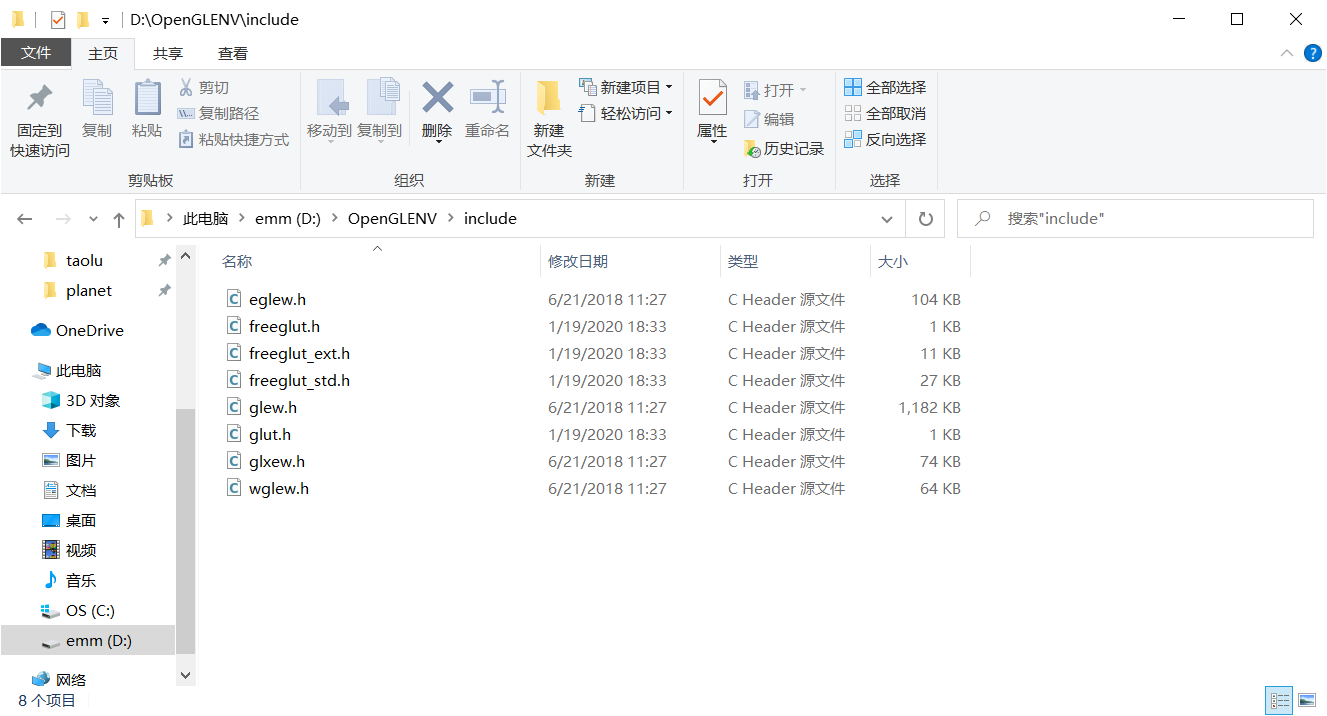
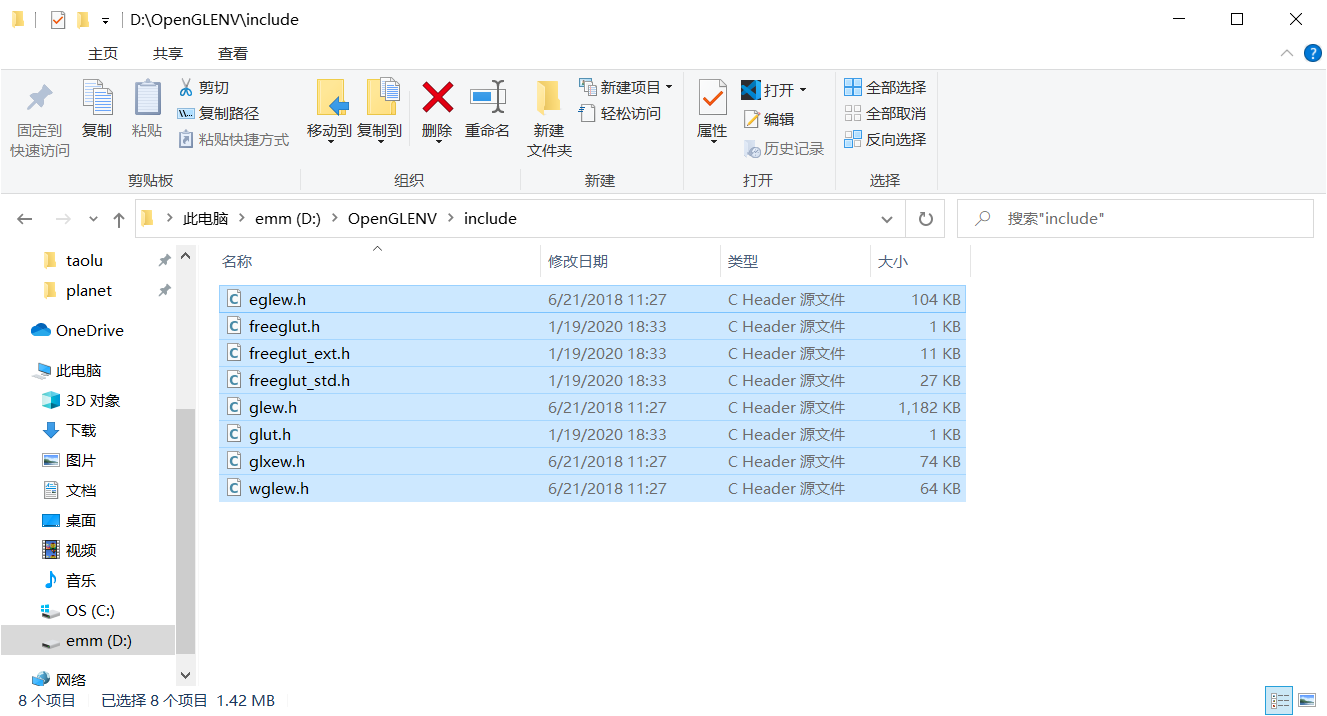
1

diff --git a/1 环境的配置/FirstOpenGL.md b/1 环境的配置/FirstOpenGL.md
@@ -49,6 +49,295 @@
 
 <img src="./windows10.png" style="width: 100%;">
 
+<li> 接下来将OpenGLENV文件夹下子文件夹include文件夹内的所有头文件选中，复制
+
+<img src="./install2.png" style="width: 100%;">
+
+
+<li> 然后粘贴到C:\Program Files (x86)\Windows Kits\10\Include\10.0.18362.0\um\gl 这个文件夹里面（注意这个路径，Include文件夹下面的文件夹的数字表示Windows10 SDK的版本，你的可能不是18362而是别的，也是可以的，如果有多个，应当选择版本号最大的一个，但保险起见你可以对每个都进行下面这些操作）
+
+<img src="./install3.png" style="width: 100%;">
+
+这样就完成了头文件的安装
+
+<li> 接下来安装库文件
+
+进入OpenGLENV下的lib文件夹，里面有两个子文件夹，x86和x64，分别对应32位版本和64位版本的库文件
+
+<img src="./install4.png" style="width: 100%;">
+
+将x86文件夹内的两个.lib文件选中，复制粘贴到C:\Program Files (x86)\Windows Kits\10\Lib\10.0.18362.0\um\x86里面，将x64文件夹内的两个.lib文件选中，复制粘贴到C:\Program Files (x86)\Windows Kits\10\Lib\10.0.18362.0\um\x64里面（注意路径，和之前说的一样，你的版本号可能跟我的不一样，有多个版本的话可以多个版本里都安装），就完成了库文件的安装
+
+
+<li> 运行库的安装
+
+<img src="./install5.png" style="width: 100%;">
+
+进入OpenGLEnv下的bin文件夹，里面有两个子文件夹，System32和SysWOW64，分布对应64位和32位的运行时动态链接库(没错，没写反）。将System32子文件夹下的两个.dll文件复制粘贴到C:\Windows\System32里面，将SysWOW64子文件里面的两个.dll文件复制粘贴到C:\Windows\SysWOW64文件夹里面即可。这样就完成了运行库的安装。
+
+至此OpenGL开发环境安装完成，可以试验一下，创建一些新的C++项目，加入下面的代码（或者直接下载教程的FirstOpenGL工程）
+
+目前阶段不必理解代码的含义，这只是为了测试你刚才的OpenGL环境是否成功安装，代码有意地使用了现代OpenGL的特性去实现，如果代码能够顺利编译运行看到金色分形三角形，那么恭喜你，可以正式开始计算机图形学和OpenGL的学习了。
+
+
+```C++
+#include <Windows.h>   //这个头文件要在opengl的头文件之前
+#include <gl/glew.h>   //这个头文件要在其它opengl的头文件之前
+#include <gl/glut.h>
+#include <utility>
+#include <string>
+#include <vector>
+#include <iostream>
+#include <algorithm>
+#include <ctime>
+#include <cstdlib>
+
+#define makeString(x) #x
+#pragma comment(lib, "opengl32.lib")
+#pragma comment(lib, "freeglut.lib")
+#ifdef _WIN64   //如果编译64位程序
+#pragma comment(lib, "glew64.lib")
+#else 
+#pragma comment(lib, "glew32.lib")
+#endif
+//画面的宽度和高度（像素）
+constexpr int viewWidth = 800;
+constexpr int viewHeight = 800; 
+
+class GLProgram
+{
+    union {
+        struct {
+            GLuint vshader, fshader;
+        }shaders;
+        GLuint shadersByIndex[sizeof(shaders) / sizeof(GLuint)];
+    };
+    constexpr static int shadersGLTable[] = {GL_VERTEX_SHADER, GL_FRAGMENT_SHADER};
+    
+    GLuint program;
+
+    void createShader(const std::string& code, int index) {
+        const GLchar* codea[1] = { code.c_str() };
+        GLuint& shader = shadersByIndex[index];
+
+        shader = glCreateShader(shadersGLTable[index]);
+        if (!shader)
+            throw std::runtime_error("Can not create shader(glCreateShader)");
+        glShaderSource(shader, 1, codea, nullptr);
+        glCompileShader(shader);
+        GLint res;
+        glGetShaderiv(shader, GL_COMPILE_STATUS, &res);
+        if (res == GL_FALSE) {
+            GLint len;
+            glGetShaderiv(shader, GL_INFO_LOG_LENGTH, &len);
+            if (len > 0) {
+                std::string info;
+                info.resize(len + 1);
+                int w;
+                glGetShaderInfoLog(shader, len, &w, (GLchar*)(info.c_str()));
+                info[w] = 0;
+                throw std::runtime_error("Shader compilation error:" + info);
+            }
+        }
+    }
+
+public:
+    constexpr static int INDEX_VERTEX_SHADER = 0;
+    constexpr static int INDEX_FRAGMENT_SHADER = 1;
+
+    GLProgram() {
+        memset(&shaders, 0, sizeof(shaders));
+        program = 0;
+    }
+    ~GLProgram() {
+        if (shaders.vshader)
+            glDeleteShader(shaders.vshader);
+        if (shaders.fshader)
+            glDeleteShader(shaders.fshader);
+        if (program)
+            glDeleteProgram(program);
+    }
+
+    void createVShader(const std::string& code) {
+        createShader(code, INDEX_VERTEX_SHADER);
+    }
+    void createFShader(const std::string& code) {
+        createShader(code, INDEX_FRAGMENT_SHADER);
+    }
+    void createProgram() {
+        program = glCreateProgram();
+        if (!program)
+            throw std::runtime_error("Fail to create opengl program(glCreateProgram)");
+        glAttachShader(program, shaders.vshader);
+        glAttachShader(program, shaders.fshader);
+        glLinkProgram(program);
+        GLint res;
+        glGetProgramiv(program, GL_LINK_STATUS, &res);
+        if (res == GL_FALSE) {
+            GLint len;
+            glGetProgramiv(shaders.fshader, GL_INFO_LOG_LENGTH, &len);
+            if (len > 0) {
+                std::string info;
+                info.resize(len + 1);
+                int w;
+                glGetProgramInfoLog(shaders.fshader, len, &w, (GLchar*)(info.c_str()));
+                info[w] = 0;
+                throw std::runtime_error("Fail to link opengl program:" + info);
+            }
+        }
+    }
+    void useProgram() const {
+        if (!program) {
+            throw std::runtime_error("Trying to use an invalid opengl program");
+        }
+        glUseProgram(program);
+    }
+    GLuint getProgram() const { return program; }
+    operator GLuint() const {  //对象被强制转换为GLuint时调用的函数
+        return program;
+    }
+    operator int() const { return program; }
+};
+
+//初始化OpenGL
+void initGL() {
+    GLenum err = glewInit();
+    if (err != GLEW_OK) {
+        MessageBox(0, TEXT("初始化GLEW失败"), TEXT("错误"), 0);
+        exit(1);
+    }
+    if (!GLEW_VERSION_4_0) {  //检查OpenGL4.0支持
+        MessageBox(0, TEXT("本计算机未支持OpenGL4.0"), TEXT("错误"), 0);
+        exit(1);
+    }
+    glEnable(GL_FRAMEBUFFER_SRGB); //开启伽马校正
+}
+
+struct Point {
+    float x, y;
+    Point middle(const Point& p) const {  //与另一个点的中点
+        return Point{ (x + p.x) / 2, (y + p.y) / 2 };
+    }
+};
+struct Triangle {
+    Point points[3];
+};
+struct Color {
+    float r, g, b, a;
+};
+
+
+//下面是顶点着色器和片段着色器的代码，功能非常基础，只是为了测试着色器功能是否正常
+static const char* vertexShaderCode = makeString(
+#version 400\n
+layout(location = 0) in vec2 pos;
+out vec4 vo_pos;
+void main() {
+    gl_Position = vec4(pos.x, pos.y, 0.0, 1.0);
+}
+);
+
+static const char* fragmentShaderCode = makeString(
+#version 400\n
+uniform vec4 color;
+void main() {
+    gl_FragColor = color;
+}
+);
+
+class RenderState {
+    unsigned long long tick;   //计时数
+    //TODO: 将绘制需要的资源定义在这里
+    GLProgram program;
+    constexpr static int MAX_DEPTH = 9;
+    GLuint VAO, VBO;
+
+    //每一帧逻辑数据更新的工作
+    void update() {
+        tick++;
+    }
+public:
+    RenderState() {
+        tick = 0;
+    }
+  
+    //在第一次绘制之前的工作
+    void preScene() {
+        printf("PreScene");
+        program.createVShader(vertexShaderCode);
+        program.createFShader(fragmentShaderCode);
+        program.createProgram();
+        program.useProgram();
+
+        //这里创建一个VAO和VBO可以储存一个三角形的三个顶点
+        glGenVertexArrays(1, &VAO);
+        glGenBuffers(1, &VBO);
+        glBindVertexArray(VAO);
+        glBindBuffer(GL_ARRAY_BUFFER, VBO);
+        glVertexAttribPointer(0, 2, GL_FLOAT, true, 2 * sizeof(float), nullptr);
+        glEnableVertexAttribArray(0);
+        //实际上绘制完后应该调用glDeleteBuffer等销毁资源...然而glut窗口关闭时是直接退出的，没有机会销毁资源...
+        //就先这样了
+    }
+ 
+    void recursiveDraw(const Triangle& tr, int depth = 0) {
+        if (depth == MAX_DEPTH) 
+            return;
+
+        //更新顶点缓冲的数据:将顶点数据换成当前三角形的三个顶点
+        glBufferData(GL_ARRAY_BUFFER, sizeof(tr), &tr, GL_DYNAMIC_DRAW);
+       
+        glUniform4f(glGetUniformLocation(program, "color"), 0.88, 0.76, 0.42, 1.0);  //金色
+        glDrawArrays(GL_TRIANGLES, 0, 3);  
+  
+        //将中间掏空
+        Point m1 = tr.points[0].middle(tr.points[1]);
+        Point m2 = tr.points[0].middle(tr.points[2]);
+        Point m3 = tr.points[1].middle(tr.points[2]);
+        Triangle m = { m1, m3, m2 };  //由三边中点构成的三角形
+        glBufferData(GL_ARRAY_BUFFER, sizeof(m), &m, GL_DYNAMIC_DRAW);
+        glUniform4f(glGetUniformLocation(program, "color"), 0.0, 0.0, 0.0, 0.0);
+        glDrawArrays(GL_TRIANGLES, 0, 3);
+
+        //绘制下一层：
+        recursiveDraw(Triangle{ tr.points[0], m1, m2 }, depth + 1);
+        recursiveDraw(Triangle{ m1, tr.points[1], m3 }, depth + 1);
+        recursiveDraw(Triangle{ m2, m3, tr.points[2] }, depth + 1);
+    }
+    //每一帧绘制的工作
+    void render() {
+        update(); //先更新逻辑，后面进行渲染
+        glClear(GL_COLOR_BUFFER_BIT | GL_DEPTH_BUFFER_BIT);
+        glClearColor(0.0f, 0.0f, 0.0f, 0.0f);  //设置透明色为背景色
+
+        recursiveDraw(Triangle{ Point{0.0, 0.882}, Point{-1.0, -0.85}, Point{1.0, -0.85} });
+
+        glutSwapBuffers();
+        glutPostRedisplay();
+    }
+
+}state;
+
+void render() {
+    state.render();
+}
+
+int main(int argc, char* argv[]) {
+    srand(time(NULL));
+    glutInit(&argc, argv);
+    glutInitDisplayMode(GLUT_RGBA | GLUT_DOUBLE);   //RGBA颜色模式，双缓冲
+    glutInitWindowSize(viewWidth, viewHeight);    //窗口的宽和高
+    glutCreateWindow("OpenGL Demo");
+    //下面两行代码注意一定放在glutCreateWindow的后面才行，否则会因为没有创建opengl上下文而失败。
+    glViewport(0, 0, viewWidth, viewHeight);
+    initGL();  
+    state.preScene();
+    glutDisplayFunc(render);
+    
+    glutMainLoop();
+    return 0;
+}
+```
 
 ## 自测题目&启示
 
